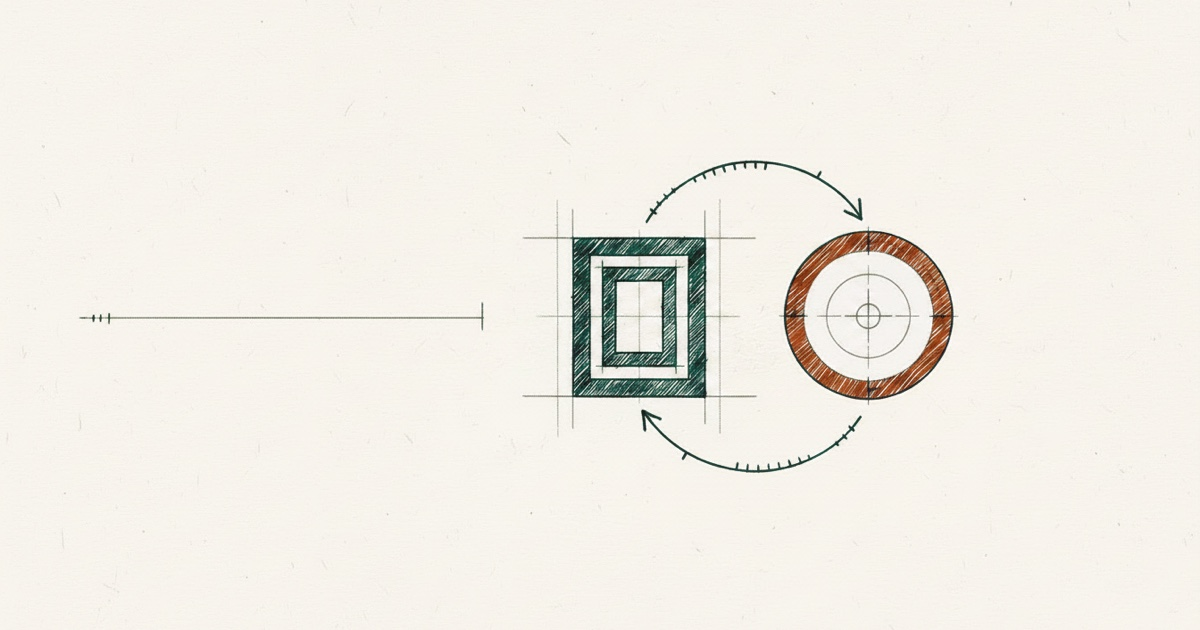
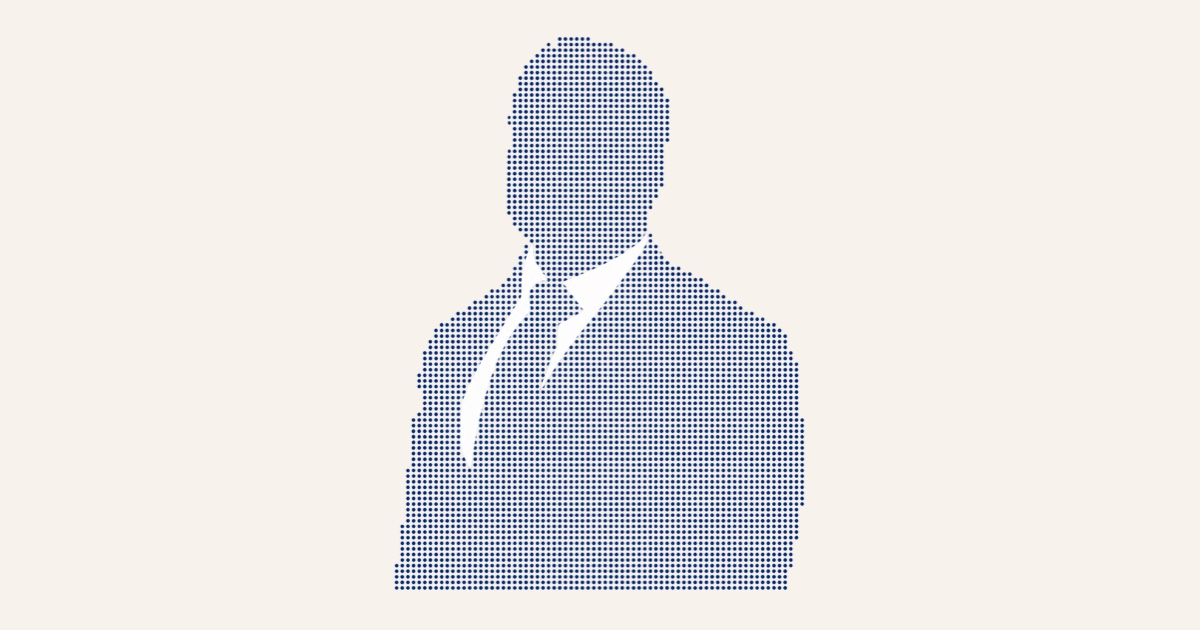
Update portfolio metadata and og-image for improved clarity and branding
- Revised the meta description and titles in index.html to better reflect current role and expertise.
- Updated the og:image alt text for enhanced accessibility and relevance.
- Adjusted comments in regrade.mjs and derive.mjs to clarify the purpose of the social card and its relationship to the homepage portrait.

Changed region(s): [[0.0617, 0.0603, 0.8017, 0.9349], [0.5858, 0.2413, 0.6783, 0.2714], [0.6783, 0.2714, 0.7092, 0.3317]]

diff --git a/frontend/public/index.html b/frontend/public/index.html
@@ -4,7 +4,7 @@
         <meta charset="utf-8" />
         <meta name="viewport" content="width=device-width, initial-scale=1" />
         <meta name="theme-color" content="#f7f3ec" />
-        <meta name="description" content="Parag Amrutkar's portfolio of product concepts and structured analysis." />
+        <meta name="description" content="I lead humans &amp; AI agents to build products for humans &amp; AI agents." />
         <!--
       manifest.json provides metadata used when your web app is installed on a
       user's mobile device or desktop. See https://developers.google.com/web/fundamentals/web-app-manifest/
@@ -18,7 +18,7 @@
       work correctly both with client-side routing and a non-root public URL.
       Learn how to configure a non-root public URL by running `npm run build`.
     -->
-        <title>Parag Amrutkar — Products &amp; Analysis</title>
+        <title>Parag Amrutkar, Sr. Technical Product Manager</title>
 
         <!--
       Type system: Fraunces (display, variable opsz/SOFT/WONK), IBM Plex Sans
@@ -49,21 +49,21 @@
       repository name (parag-amrutkar.github.io), so it changes again only
       if the repo is renamed or a CNAME is added.
 
-      og-image.jpg is cropped from the og-image plate by scripts/lib/derive.mjs
-      on every generate or regrade, so the card cannot drift from the artwork.
+      og-image.jpg is the homepage hero portrait, fitted into the Open Graph
+      frame on the site paper color so the full figure stays visible.
     -->
         <meta property="og:type" content="website" />
         <meta property="og:url" content="https://parag-amrutkar.github.io/" />
-        <meta property="og:title" content="Parag Amrutkar — Products &amp; Analysis" />
-        <meta property="og:description" content="Parag Amrutkar's portfolio of product concepts and structured analysis." />
+        <meta property="og:title" content="Parag Amrutkar, Sr. Technical Product Manager" />
+        <meta property="og:description" content="I lead humans &amp; AI agents to build products for humans &amp; AI agents." />
         <meta property="og:image" content="https://parag-amrutkar.github.io/og-image.jpg" />
         <meta property="og:image:type" content="image/jpeg" />
         <meta property="og:image:width" content="1200" />
         <meta property="og:image:height" content="630" />
-        <meta property="og:image:alt" content="A drawn field-notebook plate: a hatched square and a crosshair circle joined by two curving arrows." />
+        <meta property="og:image:alt" content="Halftone portrait of Parag Amrutkar in a suit and tie" />
         <meta name="twitter:card" content="summary_large_image" />
-        <meta name="twitter:title" content="Parag Amrutkar — Products &amp; Analysis" />
-        <meta name="twitter:description" content="Parag Amrutkar's portfolio of product concepts and structured analysis." />
+        <meta name="twitter:title" content="Parag Amrutkar, Sr. Technical Product Manager" />
+        <meta name="twitter:description" content="I lead humans &amp; AI agents to build products for humans &amp; AI agents." />
         <meta name="twitter:image" content="https://parag-amrutkar.github.io/og-image.jpg" />
     </head>
     <body>
